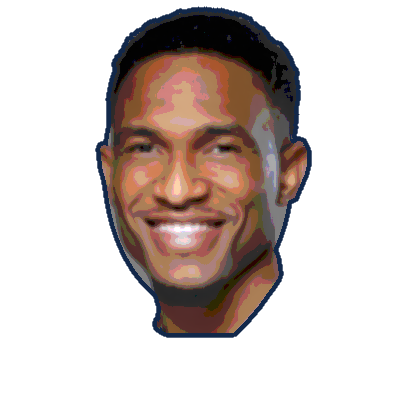
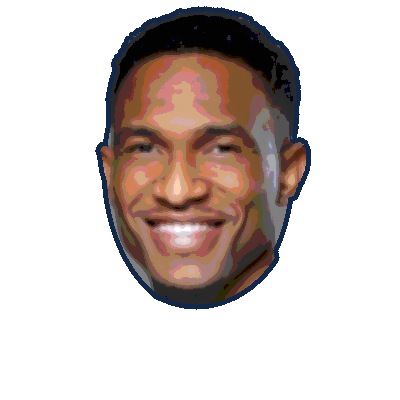
Add files via upload

Changed region(s): [[0.36, 0.63, 0.72, 0.87], [0.72, 0.33, 0.78, 0.51], [0.24, 0.33, 0.27, 0.48]]

diff --git a/src/views/HostSetup.jsx b/src/views/HostSetup.jsx
@@ -1,29 +1,9 @@
 import { useEffect, useRef, useState } from 'react';
-import { geoCentroid } from 'd3-geo';
 import { s, flag, cat, cmdId, sfx } from '../lib.js';
 import { emitAck } from '../socket.js';
-import { loadWorld } from '../components/Globe.jsx';
+import { findCountry, toEntry, COUNTRY_LIST } from '../countries.js';
 import Tope from '../components/Tope.jsx';
 import { cutout } from '../components/fx.jsx';
-
-const ALIAS = { 'usa': 'united states of america', 'united states': 'united states of america', 'us': 'united states of america', 'uk': 'united kingdom', 'great britain': 'united kingdom', 'uae': 'united arab emirates', 'czech republic': 'czechia', 'ivory coast': "côte d'ivoire", 'drc': 'dem. rep. congo', 'dr congo': 'dem. rep. congo', 'st lucia': 'saint lucia', 'st kitts and nevis': 'st. kitts and nevis', 'saint kitts and nevis': 'st. kitts and nevis', 'british virgin islands': 'british virgin is.', 'bosnia': 'bosnia and herz.', 'dominican republic': 'dominican rep.', 'south korea': 'south korea', 'central african republic': 'central african rep.' };
-let A2 = null;
-function a2Map() {
-  if (A2) return A2;
-  const m = {};
-  try { const dn = new Intl.DisplayNames(['en'], { type: 'region' }); for (let i = 65; i < 91; i++) for (let j = 65; j < 91; j++) { const c = String.fromCharCode(i, j), nm = dn.of(c); if (nm && nm !== c) m[nm.toLowerCase()] = c; } } catch (e) { /* ignore */ }
-  return (A2 = m);
-}
-function lookup(W, q) {
-  const n = q.trim().toLowerCase(), t = ALIAS[n] || n;
-  const f = W.big.find(x => x.properties.name.toLowerCase() === t);
-  if (!f) return null;
-  const [lon, lat] = geoCentroid(f);
-  const m = a2Map();
-  const a2 = m[n] || m[f.properties.name.toLowerCase()] || null;
-  const pretty = q.trim().replace(/\b\w/g, ch => ch.toUpperCase());
-  return { id: a2 || f.id, a2, n3: f.id, name: pretty, lat: +lat.toFixed(2), lon: +lon.toFixed(2) };
-}
 
 function validate(d, code) {
   const e = [], sel = d.countries.filter(c => c.selected);
@@ -81,22 +61,19 @@ export default function HostSetup({ snap, socket, onLaunched }) {
   const moveCountry = (id, dir) => update(p => { const L = p.countries.slice(), i = L.findIndex(c => c.id === id), j = i + dir; if (i < 0 || j < 0 || j >= L.length) return p; [L[i], L[j]] = [L[j], L[i]]; return { ...p, countries: L, settings: { ...p.settings, order: 'manual' } }; });
 
   async function addCountries(lines) {
-    const W = await loadWorld().catch(() => null);
-    if (!W) return 'Map data is still loading. Try again in a moment.';
     let list = latest.current.countries.slice(); const added = [], updated = [], missing = [];
     lines.forEach(line => {
-      const m = line.trim().match(/^(.*?)(?:\s*[,\-–:]\s*(yes|no|y|n|visited|not visited))?\s*$/i);
+      const m = line.trim().match(/^(.*?)(?:\s*[,\-–:]\s*(yes|no|y|n|visited|not visited|been|not been))?\s*$/i);
       if (!m || !m[1].trim()) return;
-      const nm = m[1].trim(), ans = m[2] ? /^(y|yes|visited)$/i.test(m[2]) : null;
-      const ex = list.find(c => c.name.toLowerCase() === nm.toLowerCase() || (ALIAS[nm.toLowerCase()] || '') === c.name.toLowerCase());
-      if (ex) { if (ans !== null) { list = list.map(c => (c === ex ? { ...c, visited: ans, selected: true } : c)); updated.push(ex.name); } return; }
-      const f = lookup(W, nm);
+      const nm = m[1].trim(), ans = m[2] ? /^(y|yes|visited|been)$/i.test(m[2]) : null;
+      const f = findCountry(nm);
       if (!f) { missing.push(nm); return; }
-      if (list.some(c => c.n3 === f.n3)) return;
-      list.push({ ...f, visited: ans, selected: true, extra: [] }); added.push(f.name);
+      const ex = list.find(c => c.a2 === f.a2 || c.n3 === f.n3 || c.name.toLowerCase() === f.name.toLowerCase());
+      if (ex) { list = list.map(c => (c === ex ? { ...c, a2: f.a2, n3: f.n3, lat: f.lat, lon: f.lon, selected: true, visited: ans !== null ? ans : c.visited } : c)); updated.push(ex.name); return; }
+      list.push({ ...toEntry(f), visited: ans, selected: true, extra: [] }); added.push(f.name);
     });
     update(p => ({ ...p, countries: list }));
-    return [added.length ? `Added ${added.length}.` : '', updated.length ? `Updated ${updated.length}.` : '', missing.length ? `Couldn't find ${missing.join(', ')}. Check the spelling.` : ''].filter(Boolean).join(' ') || 'Nothing new to add.';
+    return [added.length ? `Added ${added.join(', ')}.` : '', updated.length ? `Already listed: ${updated.join(', ')}.` : '', missing.length ? `Couldn't find ${missing.join(', ')}. Check the spelling.` : ''].filter(Boolean).join(' ') || 'Nothing new to add.';
   }
 
   const cmd = (type, extra = {}) => emitAck(socket, 'cmd', { type, commandId: cmdId(), ...extra });
@@ -173,10 +150,11 @@ export default function HostSetup({ snap, socket, onLaunched }) {
               <div style={s('display:flex;flex-wrap:wrap;gap:10px')}>
                 <input className="foc" value={search} onChange={e => setSearch(e.target.value)} placeholder="Search countries" style={s('flex:1 1 200px;min-width:0;padding:11px 14px;border:2px solid #12284A;border-radius:12px;background:#fff;font:600 15px Nunito;outline:none')} />
                 <div style={s('display:flex;gap:8px;flex:1 1 260px')}>
-                  <input className="foc" value={addName} onChange={e => { setAddName(e.target.value); setAddMsg(''); }} onKeyDown={async e => { if (e.key === 'Enter' && addName.trim()) { const m = await addCountries([addName]); setAddName(''); setAddMsg(m); } }} placeholder="Add a country, e.g. Chile" style={s('flex:1;min-width:0;padding:11px 14px;border:2px solid #12284A;border-radius:12px;background:#fff;font:600 15px Nunito;outline:none')} />
+                  <input className="foc" value={addName} onChange={e => { setAddName(e.target.value); setAddMsg(''); }} onKeyDown={async e => { if (e.key === 'Enter' && addName.trim()) { const m = await addCountries([addName]); setAddName(''); setAddMsg(m); } }} list="htbt-countries" placeholder="Add a country, e.g. Chile" style={s('flex:1;min-width:0;padding:11px 14px;border:2px solid #12284A;border-radius:12px;background:#fff;font:600 15px Nunito;outline:none')} />
                   <button className="press-sm" onClick={async () => { if (!addName.trim()) return; const m = await addCountries([addName]); setAddName(''); setAddMsg(m); }} style={s('padding:0 16px;border-radius:12px;border:2px solid #12284A;background:#FFF9EF;font:800 14px Nunito;box-shadow:0 3px 0 #12284A;cursor:pointer')}>Add</button>
                 </div>
               </div>
+              <datalist id="htbt-countries">{COUNTRY_LIST.map(c => <option key={c.a2} value={c.name} />)}</datalist>
               <details style={s('border:2px dashed #E3D3B5;border-radius:12px;padding:10px 14px')}>
                 <summary style={s('cursor:pointer;font:800 14px Nunito')}>Bulk paste</summary>
                 <div style={s('display:flex;flex-direction:column;gap:8px;padding-top:10px')}>
@@ -187,7 +165,7 @@ export default function HostSetup({ snap, socket, onLaunched }) {
                   </div>
                 </div>
               </details>
-              {addMsg && <div style={s('font:700 13px Nunito;color:#B23A26')}>{addMsg}</div>}
+              {addMsg && <div style={s(`font:700 13px Nunito;color:${/Couldn't/.test(addMsg) ? '#B23A26' : '#13807B'}`)}>{addMsg}</div>}
               <div style={s('display:flex;justify-content:space-between;flex-wrap:wrap;gap:8px;font:700 13px Nunito;color:#4A5B75')}><span>{sel.length} in the game · {answered} answered</span><span>{st.order === 'shuffle' ? 'Order: shuffled at launch' : 'Order: as listed'}</span></div>
               <div style={s('display:flex;flex-direction:column;gap:8px')}>
                 {filtered.map(x => {

diff --git a/server/seed.js b/server/seed.js
@@ -1,21 +1,26 @@
 // Seed data from the organiser's original setup (see SPEC.md §12).
 // [iso2, isoNumeric, name, lat, lon, visited]
 export const COUNTRIES = [
-  ['MY','458','Malaysia',4.2,101.9,true],['KE','404','Kenya',0.2,37.9,true],['IT','380','Italy',42.8,12.6,true],
+  // Been there (the organiser's list, in their order)
+  ['US','840','United States',39.8,-98.6,true],['GB','826','United Kingdom',54.0,-2.76,true],['MY','458','Malaysia',4.2,101.9,true],
+  ['OM','512','Oman',20.59,56.06,true],['KE','404','Kenya',0.2,37.9,true],['IT','380','Italy',42.8,12.6,true],
   ['AR','032','Argentina',-38.4,-63.6,true],['PA','591','Panama',8.5,-80.8,true],['BE','056','Belgium',50.5,4.5,true],
   ['RU','643','Russia',61.5,105.3,true],['MX','484','Mexico',23.6,-102.6,true],['VG','092','British Virgin Islands',18.42,-64.64,true],
   ['KN','659','St Kitts and Nevis',17.3,-62.7,true],['LC','662','St Lucia',13.9,-60.98,true],['TR','792','Turkey',39.0,35.2,true],
   ['GE','268','Georgia',42.3,43.4,true],['UG','800','Uganda',1.4,32.3,true],['FR','250','France',46.6,2.4,true],
   ['NL','528','Netherlands',52.1,5.3,true],['GH','288','Ghana',7.9,-1.0,true],['BJ','204','Benin',9.3,2.3,true],
   ['TG','768','Togo',8.6,0.8,true],['QA','634','Qatar',25.3,51.2,true],['SK','703','Slovakia',48.7,19.7,true],
-  ['CZ','203','Czech Republic',49.8,15.5,true],['AT','040','Austria',47.5,14.6,true],['ES','724','Spain',40.4,-3.7,false],
-  ['PT','620','Portugal',39.6,-8.0,false],['DE','276','Germany',51.2,10.4,false],['GR','300','Greece',39.1,21.8,false],
-  ['CH','756','Switzerland',46.8,8.2,false],['IE','372','Ireland',53.4,-8.2,false],['BR','076','Brazil',-14.2,-51.9,false],
-  ['CL','152','Chile',-35.7,-71.5,false],['CR','188','Costa Rica',9.7,-83.8,false],['JM','388','Jamaica',18.1,-77.3,false],
-  ['BB','052','Barbados',13.19,-59.54,false],['EG','818','Egypt',26.8,30.8,false],['ZA','710','South Africa',-30.6,22.9,false],
-  ['TZ','834','Tanzania',-6.4,34.9,false],['TH','764','Thailand',15.9,101.0,false],['SG','702','Singapore',1.35,103.8,false],
-  ['JP','392','Japan',36.2,138.3,false],['AE','784','United Arab Emirates',23.4,53.8,false],['AM','051','Armenia',40.1,45.0,false]
+  ['CZ','203','Czech Republic',49.8,15.5,true],['AT','040','Austria',47.5,14.6,true],
+  // Not been
+  ['ES','724','Spain',40.4,-3.7,false],['PT','620','Portugal',39.6,-8.0,false],['DE','276','Germany',51.2,10.4,false],
+  ['GR','300','Greece',39.1,21.8,false],['CH','756','Switzerland',46.8,8.2,false],['IE','372','Ireland',53.4,-8.2,false],
+  ['BR','076','Brazil',-14.2,-51.9,false],['CL','152','Chile',-35.7,-71.5,false],['CR','188','Costa Rica',9.7,-83.8,false],
+  ['JM','388','Jamaica',18.1,-77.3,false],['BB','052','Barbados',13.19,-59.54,false],['EG','818','Egypt',26.8,30.8,false],
+  ['ZA','710','South Africa',-30.6,22.9,false],['TZ','834','Tanzania',-6.4,34.9,false],['TH','764','Thailand',15.9,101.0,false],
+  ['SG','702','Singapore',1.35,103.8,false],['JP','392','Japan',36.2,138.3,false],['AE','784','United Arab Emirates',23.4,53.8,false],
+  ['AM','051','Armenia',40.1,45.0,false]
 ];
+export const SEED_VERSION = 2;
 
 export const QUESTIONS = [
   ['food','What would you order for your first meal there?'],['food',"What's a snack you'd bring home in your suitcase?"],

diff --git a/server/game.js b/server/game.js
@@ -2,7 +2,7 @@
 // and tightened per SPEC.md. Every mutating function returns either
 // { ok: true } or { ok: false, code, message }. Callers persist + broadcast.
 import crypto from 'node:crypto';
-import { COUNTRIES, QUESTIONS } from './seed.js';
+import { COUNTRIES, QUESTIONS, SEED_VERSION } from './seed.js';
 
 export const SPIN_MS = 5000;
 export const SPIN_LEAD_MS = 300;
@@ -22,16 +22,30 @@ export function shuffle(a) {
 const fail = (code, message) => ({ ok: false, code, message });
 const OK = { ok: true };
 
+const seedCountry = ([a2, n3, name, lat, lon, v]) => ({ id: a2, a2, n3, name, lat, lon, visited: v, selected: true, extra: [] });
+
+// Adds countries introduced by a newer seed to rooms created before it. Runs once per seed version,
+// so a country the host removes on purpose doesn't come back.
+export function migrateRoom(room) {
+  if ((room.seedVersion || 1) >= SEED_VERSION) return false;
+  const have = new Set(room.countries.map(c => c.a2 || c.id));
+  const add = COUNTRIES.filter(c => !have.has(c[0])).map(seedCountry);
+  room.countries = [...add, ...room.countries];
+  room.seedVersion = SEED_VERSION;
+  return true;
+}
+
 export function newRoom(code = 'TOPE40') {
   return {
     id: 'r' + uid(10),
     code,
     createdAt: Date.now(),
     status: 'open',
+    seedVersion: SEED_VERSION,
     hostTokenHashes: [],
     settings: { name: 'Tope', age: 40, rounds: 10, order: 'shuffle', timerEnabled: false, timerSecs: 90, allowOwn: true, sound: false },
     photoV: 0,
-    countries: COUNTRIES.map(([a2, n3, name, lat, lon, v]) => ({ id: a2, a2, n3, name, lat, lon, visited: v, selected: true, extra: [] })),
+    countries: COUNTRIES.map(seedCountry),
     questions: QUESTIONS.map(([cat, text], i) => ({ id: 'q' + i, cat, text })),
     players: [],
     game: null,
@@ -148,6 +162,14 @@ export function addPlayer(room, name, byHost) {
 export function join(room, name) {
   if (!room.game) return fail('ROOM_NOT_OPEN', "That room isn't open yet. Ask the host to open the lobby.");
   if (room.game.stage === 'finale') return fail('GAME_FINISHED', 'This game has finished. Hang on for the next one.');
+  // Rejoin: a dropped phone (or a new phone) can take back an offline player's spot by typing the same name.
+  const n = cleanName(name), existing = n && room.players.find(p => p.name.toLowerCase() === n.toLowerCase());
+  if (existing) {
+    if (existing.connected) return fail('NAME_TAKEN', `Someone's already called ${existing.name} and they're connected. Try adding an initial.`);
+    const t = token();
+    existing.tokenHash = hash(t);
+    return { ok: true, player: existing, sessionToken: t, rejoined: true };
+  }
   const res = addPlayer(room, name, false);
   if (!res.ok) return res;
   const t = token();

diff --git a/src/views/Phone.jsx b/src/views/Phone.jsx
@@ -93,6 +93,7 @@ export default function Phone({ initialCode }) {
               <div style={s('font:600 15px/1.45 Nunito;color:#4A5B75')}>Pop in the room code from the big screen and pick a name. No account needed.</div>
               <label style={s('display:flex;flex-direction:column;gap:6px;font:800 14px Nunito')}>Room code<input className="foc" value={code} onChange={e => { setCode(e.target.value.toUpperCase().replace(/[^A-Z0-9]/g, '')); setJoinErr(''); }} placeholder="e.g. TOPE40" autoCapitalize="characters" autoComplete="off" style={s("padding:14px;border:2px solid #12284A;border-radius:14px;background:#fff;font:500 20px 'DM Mono';letter-spacing:.14em;text-transform:uppercase;outline:none;min-width:0")} /></label>
               <label style={s('display:flex;flex-direction:column;gap:6px;font:800 14px Nunito')}>Your name<input className="foc" value={joinName} onChange={e => { setJoinName(e.target.value); setJoinErr(''); }} onKeyDown={e => { if (e.key === 'Enter') doJoin(); }} placeholder="What should we call you?" maxLength={20} autoComplete="given-name" style={s('padding:14px;border:2px solid #12284A;border-radius:14px;background:#fff;font:700 17px Nunito;outline:none;min-width:0')} /></label>
+              <div style={s('font:600 13px/1.4 Nunito;color:#4A5B75;margin-top:-6px')}>Dropped out? Type the same name and code to get your spot back.</div>
               {joinErr && <div style={s('padding:10px 12px;border-radius:12px;background:#FFD9CF;border:2px solid #12284A;font:700 14px/1.4 Nunito')}>{joinErr}</div>}
               {joinLate && <div style={s('font:700 13px/1.4 Nunito;color:#13807B')}>The game has started. You'll join at the end of the queue.</div>}
               <button className="press" disabled={busy} onClick={doJoin} style={s('min-height:56px;border-radius:16px;border:2px solid #12284A;background:#FFC83D;font:900 18px Nunito;box-shadow:0 4px 0 #12284A;cursor:pointer')}>{busy ? 'Checking in…' : 'Check in'}</button>

diff --git a/src/components/fx.jsx b/src/components/fx.jsx
@@ -90,6 +90,7 @@ export function QR({ text }) {
 
 // Cuts a face photo (400x400, plain background) into a head sticker:
 // flood-fill background, oval mask, posterise, navy outline. Ported from the prototype.
+export const FACE = { cx: 196, cy: 168, rx: 104, ry: 136 };
 export function cutout(cv) {
   const W = cv.width, H = cv.height, sc = W / 400, ctx = cv.getContext('2d'), d = ctx.getImageData(0, 0, W, H), p = d.data;
   const core = (x, y) => { const ex = (x / sc - 198) / 92, ey = (y / sc - 168) / 140; return ex * ex + ey * ey < 1; };
@@ -100,6 +101,8 @@ export function cutout(cv) {
   for (let y = 0; y < H; y++) q.push(0, y, W - 1, y);
   while (q.length) { const y = q.pop(), x = q.pop(); if (x < 0 || y < 0 || x >= W || y >= H) continue; const k = y * W + x; if (!alpha[k] || core(x, y) || !bgLike(k * 4)) continue; alpha[k] = 0; q.push(x + 1, y, x - 1, y, x, y + 1, x, y - 1); }
   for (let y = 0; y < H; y++) for (let x = 0; x < W; x++) { const ex = (x / sc - 205) / 118, ey = (y / sc - 170) / 172; if (ex * ex + ey * ey > 1 || y / sc > 332) alpha[y * W + x] = 0; }
+  // Face only: below the cheekbones, keep pixels inside a jaw-shaped ellipse so the neck is trimmed off.
+  for (let y = 0; y < H; y++) for (let x = 0; x < W; x++) { const yy = y / sc; if (yy < 200) continue; const ex = (x / sc - FACE.cx) / FACE.rx, ey = (yy - FACE.cy) / FACE.ry; if (ex * ex + ey * ey > 1) alpha[y * W + x] = 0; }
   const keep = new Uint8Array(W * H), st = [Math.floor(200 * sc), Math.floor(170 * sc)];
   while (st.length) { const y = st.pop(), x = st.pop(); if (x < 0 || y < 0 || x >= W || y >= H) continue; const k = y * W + x; if (keep[k] || !alpha[k]) continue; keep[k] = 1; st.push(x + 1, y, x - 1, y, x, y + 1, x, y - 1); }
   const src = new Uint8ClampedArray(p), R = 2, L = 7, qz = v => Math.round(Math.round(v / 255 * (L - 1)) / (L - 1) * 255);

diff --git a/src/countries.js b/src/countries.js
@@ -1,0 +1,31 @@
+// Country lookup for the host's "Add a country" box: forgiving of case, punctuation,
+// "St"/"Saint", "Republic" and small typos. Data: src/countryData.json (scripts/build-countries.cjs).
+import DATA from './countryData.json';
+
+export const COUNTRY_LIST = DATA;
+const raw = s => String(s || '').toLowerCase().normalize('NFD').replace(/[̀-ͯ]/g, '')
+  .replace(/&/g, ' and ').replace(/[^a-z0-9 ]+/g, ' ').replace(/\bst\b/g, 'saint').replace(/\s+/g, ' ').trim().replace(/^the /, '');
+const norm = s => raw(s).replace(/^republic of /, '').replace(/ republic$/, '');
+const INDEX = new Map();
+for (const c of DATA) for (const a of [c.name, ...c.aliases]) for (const k of [norm(a), raw(a)]) if (k && !INDEX.has(k)) INDEX.set(k, c);
+const KEYS = [...INDEX.keys()];
+
+function lev(a, b) {
+  if (Math.abs(a.length - b.length) > 3) return 99;
+  const d = Array.from({ length: b.length + 1 }, (_, i) => i);
+  for (let i = 1; i <= a.length; i++) { let prev = d[0]; d[0] = i; for (let j = 1; j <= b.length; j++) { const t = d[j]; d[j] = Math.min(d[j] + 1, d[j - 1] + 1, prev + (a[i - 1] === b[j - 1] ? 0 : 1)); prev = t; } }
+  return d[b.length];
+}
+
+export function findCountry(q) {
+  const k = norm(q), r = raw(q);
+  if (!k) return null;
+  if (INDEX.has(k)) return INDEX.get(k);
+  if (INDEX.has(r)) return INDEX.get(r);
+  if (k.length < 4) return null;
+  let best = null, bd = 99;
+  for (const key of KEYS) { const dd = Math.min(lev(k, key), lev(r, key)); if (dd < bd) { bd = dd; best = key; } }
+  return bd <= Math.max(1, Math.floor(r.length / 4)) ? INDEX.get(best) : null;
+}
+
+export const toEntry = c => ({ id: c.a2, a2: c.a2, n3: c.n3, name: c.name, lat: c.lat, lon: c.lon });

diff --git a/server/index.js b/server/index.js
@@ -19,7 +19,7 @@ if (!HOST_PASSWORD || HOST_PASSWORD === 'change-me') {
 
 // ---- in-memory state rebuilt from the database ------------------------------
 const rooms = new Map(); // code -> room
-for (const r of DB.loadRooms()) { r.players.forEach(p => { p.connected = false; }); rooms.set(r.code, r); }
+for (const r of DB.loadRooms()) { r.players.forEach(p => { p.connected = false; }); if (G.migrateRoom(r)) DB.saveRoom(r); rooms.set(r.code, r); }
 const byId = id => [...rooms.values()].find(r => r.id === id);
 const latestRoom = () => [...rooms.values()].sort((a, b) => b.createdAt - a.createdAt)[0] || null;
 
@@ -212,7 +212,7 @@ io.on('connection', socket => {
     refreshConnected(r);
     commit(r);
     socket.emit('you', { participantId });
-    ack && ack({ ok: true, sessionToken: res.sessionToken, participantId, code: r.code });
+    ack && ack({ ok: true, sessionToken: res.sessionToken, participantId, code: r.code, rejoined: !!res.rejoined });
   });
 
   socket.on('lockGuess', (c = {}, ack) => {

diff --git a/src/socket.js b/src/socket.js
@@ -16,7 +16,7 @@ export function useRoomSocket(auth, { onEvent } = {}) {
   useEffect(() => {
     if (!key) return;
     verRef.current = 0;
-    const sock = io({ auth: JSON.parse(key), transports: ['websocket', 'polling'] });
+    const sock = io({ auth: JSON.parse(key) }); // polling first, then upgrade to WebSocket when the proxy allows it
     sockRef.current = sock;
     const take = st => {
       // A room-code change keeps versions increasing, so a plain >= check is enough.

diff --git a/README.md b/README.md
@@ -58,7 +58,8 @@ Everything lives in one SQLite file, `/data/htbt.sqlite`. Copy it while the app 
 1. Open `/host`, sign in, check the countries, then press **Ready to launch**. This opens the lobby.
 2. Open `/screen/TOPE40` on the TV. Click **Go full screen + sound** once so the browser allows audio.
 3. Guests scan the QR code. If a phone dies, use **Enter their guess** on the host page, or add people without phones to the queue.
-4. A phone that reloads keeps its place, because the session token is stored on the device.
+4. A phone that reloads keeps its place, because the session token is stored on the device. If someone loses their session completely (new phone, cleared browser), they can type the same name and room code to take back their spot, as long as the old one is offline.
+5. Adding a country in setup: type any common name (USA, UK, Holland, St Kitts, Ivory Coast…). Small typos are fine. The flag and globe position fill in automatically. The country table lives in `src/countryData.json`; rebuild it with `node scripts/build-countries.cjs`.
 
 ## Local development
 
